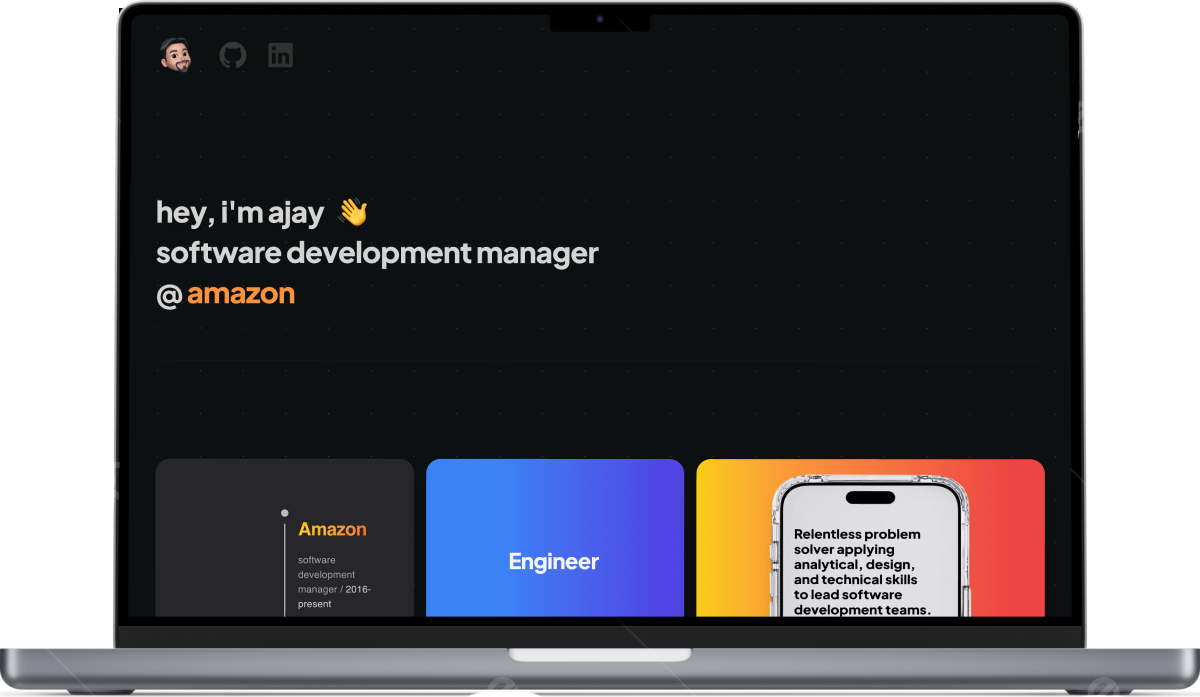
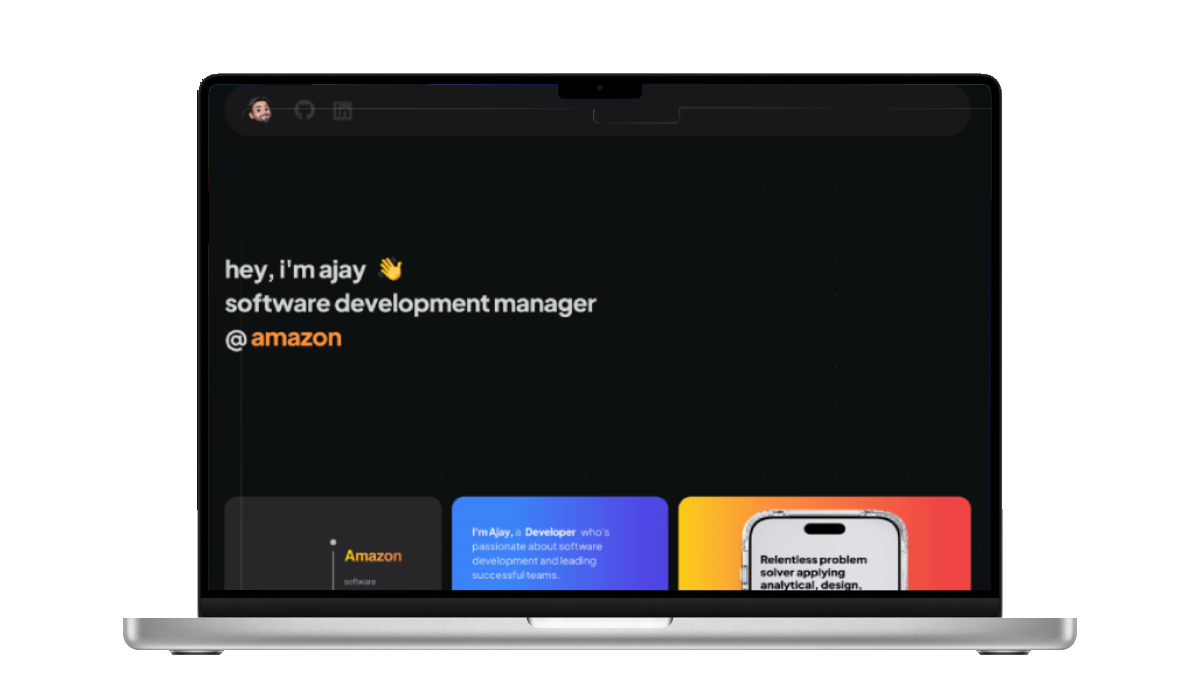
updated readme

diff --git a/src/components/BentoGrid.jsx b/src/components/BentoGrid.jsx
@@ -49,7 +49,7 @@ const BentoGrid = () => {
             </div>
 
         </div>
-        <div className='transition-all duration-500 cursor-pointer filter grayscale hover:grayscale-0 drop-shadow-2xl col-span-3 row-span-2 rounded-3xl flex justify-center items-center bg-gradient-to-r from-blue-500 from-500% via-blue-500 via-30% to-indigo-600 to-90%'>
+        <div className='transition-all duration-500 cursor-pointer filter  hover:grayscale-0 drop-shadow-2xl col-span-3 row-span-2 rounded-3xl flex justify-center items-center bg-gradient-to-r from-blue-500 from-500% via-blue-500 via-30% to-indigo-600 to-90%'>
             {/* flip-word component */}
             <div className='position: absolute mt-auto mb-auto object-contain px-10 lg:text-xl'>
                 <p className='text-gray-200'><a className='leading-snug tracking-tight font-extrabold'>I'm Ajay,</a> a<FlipWords 
